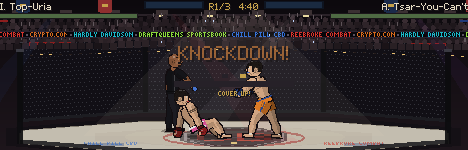
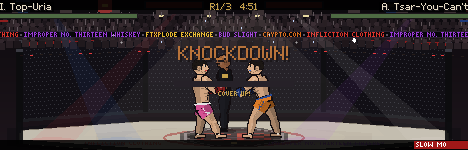
Tutorial: retaken ledger, fight card and live-fight pictures; Quick Fight venue lesson names the new rooms
- Phone ledger pictures no longer have an ACHIEVEMENT UNLOCKED popup over them (the
  setup waits for a late one and closes it).
- The phone "you're on the card" picture shows whole rows, names included.
- Live-fight pictures retaken with the HUD name plates.
- THE VENUE lesson: sixteen rooms, Fight Island, the aircraft carrier and the rooftop.

Claude-Session: https://claude.ai/code/session_011VYE9QAxAYV8EGFoXNtwDG

diff --git a/src/ui/guidepics.ts b/src/ui/guidepics.ts
@@ -66,7 +66,7 @@ export const PICS: Record<string, { pc?: PicInfo; phone?: PicInfo }> = {
   "fd_5": {"pc":{"file":"pc/fd_5.png","w":468,"h":150,"marks":[{"k":"legend","x":6,"y":24,"items":[["[getl]","LEFT"],["[getr]","RIGHT"]]}]},"phone":{"file":"phone/fd_5.png","w":508,"h":120,"r":2,"marks":[{"k":"tap","x":52,"y":64},{"k":"tap","x":456,"y":64,"n":2}]}},
   "fg_1": {"pc":{"file":"pc/fg_1.png","w":468,"h":150,"marks":[{"k":"box","x":200,"y":124,"w":67,"h":14}]},"phone":{"file":"phone/fg_1.png","w":508,"h":120,"r":2,"marks":[{"k":"box","x":193,"y":42,"w":67,"h":14},{"k":"box","x":470,"y":54,"w":32,"h":32,"n":2},{"k":"box","x":400,"y":84,"w":32,"h":32,"n":2}]}},
   "fg_4": {"pc":{"file":"pc/fg_4.png","w":468,"h":150,"marks":[{"k":"legend","x":6,"y":24,"items":[["[grab]","MASH"],["[stick]","ROLL"]]}]},"phone":{"file":"phone/fg_4.png","w":508,"h":120,"r":2,"marks":[{"k":"tap","x":486,"y":70,"label":"MASH"},{"k":"tap","x":416,"y":100,"n":2},{"k":"swipe","x":16,"y":66,"x2":52,"y2":66,"n":3,"label":"ROLL"}]}},
-  "fmn_1": {"pc":{"file":"pc/fmn_1.png","w":468,"h":150,"marks":[{"k":"box","x":0,"y":2,"w":458,"h":22},{"k":"tap","x":369,"y":14,"n":2},{"k":"box","x":388,"y":6,"w":35,"h":15,"n":3},{"k":"box","x":424,"y":6,"w":31,"h":15,"n":3}]},"phone":{"file":"phone/fmn_1.png","w":468,"h":150,"r":2,"marks":[{"k":"box","x":0,"y":2,"w":468,"h":25},{"k":"tap","x":380,"y":15,"n":2},{"k":"box","x":406,"y":5,"w":47,"h":20,"n":3},{"k":"box","x":456,"y":5,"w":12,"h":20,"n":3}]}},
+  "fmn_1": {"pc":{"file":"pc/fmn_1.png","w":468,"h":150,"marks":[{"k":"box","x":0,"y":2,"w":458,"h":22},{"k":"tap","x":369,"y":14,"n":2},{"k":"box","x":388,"y":6,"w":35,"h":15,"n":3},{"k":"box","x":424,"y":6,"w":31,"h":15,"n":3}]},"phone":{"file":"phone/fmn_1.png","w":520,"h":150,"r":2,"marks":[{"k":"box","x":2,"y":2,"w":510,"h":25},{"k":"tap","x":390,"y":15,"n":2},{"k":"box","x":416,"y":5,"w":47,"h":20,"n":3},{"k":"box","x":466,"y":5,"w":43,"h":20,"n":3}]}},
   "fn_1": {"pc":{"file":"pc/fn_1.png","w":472,"h":264,"r":2,"marks":[{"k":"box","x":4,"y":240,"w":131,"h":19},{"k":"tap","x":404,"y":250,"n":2}]},"phone":{"file":"pc/fn_1.png","w":472,"h":264,"r":2,"marks":[{"k":"box","x":4,"y":240,"w":131,"h":19},{"k":"tap","x":404,"y":250,"n":2}]}},
   "fn_2": {"pc":{"file":"pc/fn_2.png","w":468,"h":150,"marks":[{"k":"tap","x":406,"y":14},{"k":"tap","x":440,"y":14,"n":2}]},"phone":{"file":"phone/fn_2.png","w":520,"h":150,"r":2,"marks":[{"k":"tap","x":440,"y":15},{"k":"tap","x":488,"y":15,"n":2}]}},
   "fn_3": {"pc":{"file":"pc/fn_3.png","w":480,"h":270,"r":2,"marks":[{"k":"box","x":4,"y":254,"w":35,"h":14},{"k":"box","x":41,"y":254,"w":33,"h":14,"n":2},{"k":"box","x":76,"y":254,"w":49,"h":14,"n":3},{"k":"box","x":127,"y":254,"w":102,"h":14,"n":4},{"k":"box","x":231,"y":254,"w":49,"h":14,"n":5}]},"phone":{"file":"phone/fn_3.png","w":480,"h":270,"r":2,"marks":[{"k":"box","x":4,"y":253,"w":45,"h":17},{"k":"box","x":51,"y":253,"w":47,"h":17,"n":2},{"k":"box","x":100,"y":253,"w":61,"h":17,"n":3},{"k":"box","x":163,"y":253,"w":142,"h":17,"n":4},{"k":"box","x":307,"y":253,"w":68,"h":17,"n":5}]}},

diff --git a/src/ui/guidelessons.ts b/src/ui/guidelessons.ts
@@ -647,8 +647,8 @@ export const LESSONS: Lesson[] = [
       },
       {
         title: "THE VENUE", pic: "qf_4",
-        pc: "Pick the room under the corners: the CBFC's Ape-X, a casino ballroom, a barn with a judgemental goat, a waffle house parking lot, or a warehouse with no gloves (bareknuckle rules).",
-        phone: "Pick the room under the corners: the CBFC's Ape-X, a casino ballroom, a barn with a judgemental goat, a waffle house parking lot, or a warehouse with no gloves (bareknuckle rules).",
+        pc: "Pick the room under the corners, sixteen of them: the CBFC's Ape-X, Fight Island, an aircraft carrier, a rooftop, a barn with a judgemental goat, a waffle house parking lot, or a warehouse with no gloves (bareknuckle rules).",
+        phone: "Pick the room under the corners, sixteen of them: the CBFC's Ape-X, Fight Island, an aircraft carrier, a rooftop, a barn with a judgemental goat, a waffle house parking lot, or a warehouse with no gloves (bareknuckle rules).",
       },
       {
         title: "FIGHT!", pic: "qf_5",
